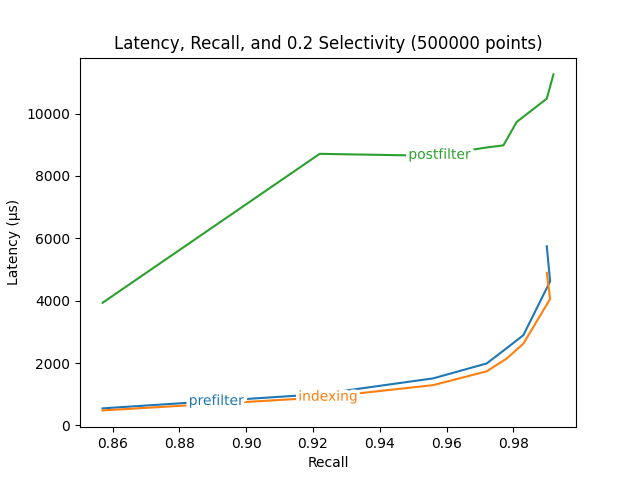
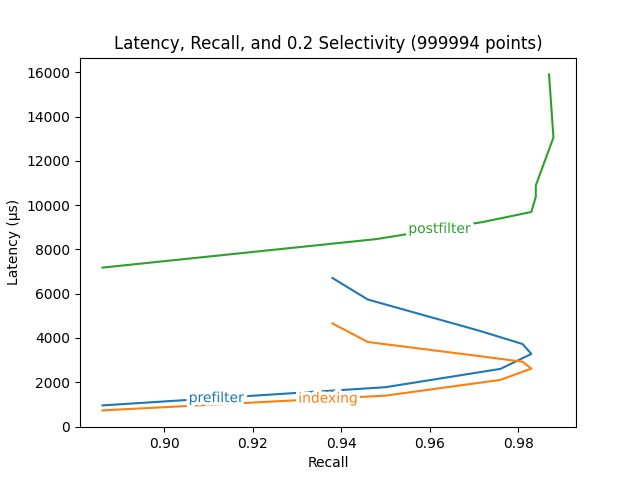
updated experiment sets

diff --git a/scripts/experiment_parametriser/experimenter.py b/scripts/experiment_parametriser/experimenter.py
@@ -69,12 +69,12 @@ if __name__ == "__main__":
         ctypes.c_bool) # verbose
         
 
-    dataset_filter_attribute_range = [i for i in range(50)]
-    n_input_vecs = 500000 #999994
+    dataset_filter_attribute_range = [i for i in range(10)]
+    n_input_vecs = 999994 #999994
     index_param_sets = [
         # {
         # "dataset_filter_attributes": np.array(dataset_filter_attribute_range, dtype=np.int32),
-        # "n_attributes_per_datapoint": 20,
+        # "n_attributes_per_datapoint": 10,
         # "n_attr_idx_partitions": 10,
         # "n_input_vecs": n_input_vecs,
         # "n_clusters": 700,
@@ -87,7 +87,7 @@ if __name__ == "__main__":
         # },
         # {
         # "dataset_filter_attributes": np.array(dataset_filter_attribute_range, dtype=np.int32),
-        # "n_attributes_per_datapoint": 20,
+        # "n_attributes_per_datapoint": 10,
         # "n_attr_idx_partitions": 10,
         # "n_input_vecs": n_input_vecs,
         # "n_clusters": 700,
@@ -100,7 +100,7 @@ if __name__ == "__main__":
         # },
         # {
         # "dataset_filter_attributes": np.array(dataset_filter_attribute_range, dtype=np.int32),
-        # "n_attributes_per_datapoint": 20,
+        # "n_attributes_per_datapoint": 10,
         # "n_attr_idx_partitions": 10,
         # "n_input_vecs": n_input_vecs,
         # "n_clusters": 700,
@@ -113,7 +113,7 @@ if __name__ == "__main__":
         # },
         # {
         # "dataset_filter_attributes": np.array(dataset_filter_attribute_range, dtype=np.int32),
-        # "n_attributes_per_datapoint": 20,
+        # "n_attributes_per_datapoint": 10,
         # "n_attr_idx_partitions": 10,
         # "n_input_vecs": n_input_vecs,
         # "n_clusters": 700,
@@ -126,7 +126,7 @@ if __name__ == "__main__":
         # },
         # {
         # "dataset_filter_attributes": np.array(dataset_filter_attribute_range, dtype=np.int32),
-        # "n_attributes_per_datapoint": 20,
+        # "n_attributes_per_datapoint": 10,
         # "n_attr_idx_partitions": 10,
         # "n_input_vecs": n_input_vecs,
         # "n_clusters": 700,
@@ -139,7 +139,7 @@ if __name__ == "__main__":
         # },
         # {
         # "dataset_filter_attributes": np.array(dataset_filter_attribute_range, dtype=np.int32),
-        # "n_attributes_per_datapoint": 20,
+        # "n_attributes_per_datapoint": 10,
         # "n_attr_idx_partitions": 10,
         # "n_input_vecs": n_input_vecs,
         # "n_clusters": 700,
@@ -152,7 +152,7 @@ if __name__ == "__main__":
         # },
         # {
         # "dataset_filter_attributes": np.array(dataset_filter_attribute_range, dtype=np.int32),
-        # "n_attributes_per_datapoint": 20,
+        # "n_attributes_per_datapoint": 10,
         # "n_attr_idx_partitions": 10,
         # "n_input_vecs": n_input_vecs,
         # "n_clusters": 700,
@@ -165,7 +165,7 @@ if __name__ == "__main__":
         # },
         # {
         # "dataset_filter_attributes": np.array(dataset_filter_attribute_range, dtype=np.int32),
-        # "n_attributes_per_datapoint": 20,
+        # "n_attributes_per_datapoint": 10,
         # "n_attr_idx_partitions": 10,
         # "n_input_vecs": n_input_vecs,
         # "n_clusters": 700,
@@ -176,35 +176,35 @@ if __name__ == "__main__":
         # "euclidean": True,
         # "dataset_file": "wiki-news-300d-1M.vec",
         # },
-        # {
-        # "dataset_filter_attributes": np.array(dataset_filter_attribute_range, dtype=np.int32),
-        # "n_attributes_per_datapoint": 20,
-        # "n_attr_idx_partitions": 10,
-        # "n_input_vecs": n_input_vecs,
-        # "n_clusters": 700,
-        # "global_dim": 256,
-        # "rank": 32,
-        # "train_size": 5,
-        # "a0_selectivity": 0.8,
-        # "euclidean": True,
-        # "dataset_file": "wiki-news-300d-1M.vec",
-        # },
         {
         "dataset_filter_attributes": np.array(dataset_filter_attribute_range, dtype=np.int32),
-        "n_attributes_per_datapoint": 20,
+        "n_attributes_per_datapoint": 10,
         "n_attr_idx_partitions": 10,
         "n_input_vecs": n_input_vecs,
         "n_clusters": 700,
         "global_dim": 256,
         "rank": 32,
         "train_size": 5,
-        "a0_selectivity": 0.9,
+        "a0_selectivity": 0.8,
         "euclidean": True,
         "dataset_file": "wiki-news-300d-1M.vec",
         },
         # {
         # "dataset_filter_attributes": np.array(dataset_filter_attribute_range, dtype=np.int32),
-        # "n_attributes_per_datapoint": 20,
+        # "n_attributes_per_datapoint": 10,
+        # "n_attr_idx_partitions": 10,
+        # "n_input_vecs": n_input_vecs,
+        # "n_clusters": 700,
+        # "global_dim": 256,
+        # "rank": 32,
+        # "train_size": 5,
+        # "a0_selectivity": 0.9,
+        # "euclidean": True,
+        # "dataset_file": "wiki-news-300d-1M.vec",
+        # },
+        # {
+        # "dataset_filter_attributes": np.array(dataset_filter_attribute_range, dtype=np.int32),
+        # "n_attributes_per_datapoint": 10,
         # "n_attr_idx_partitions": 10,
         # "n_input_vecs": n_input_vecs,
         # "n_clusters": 700,
